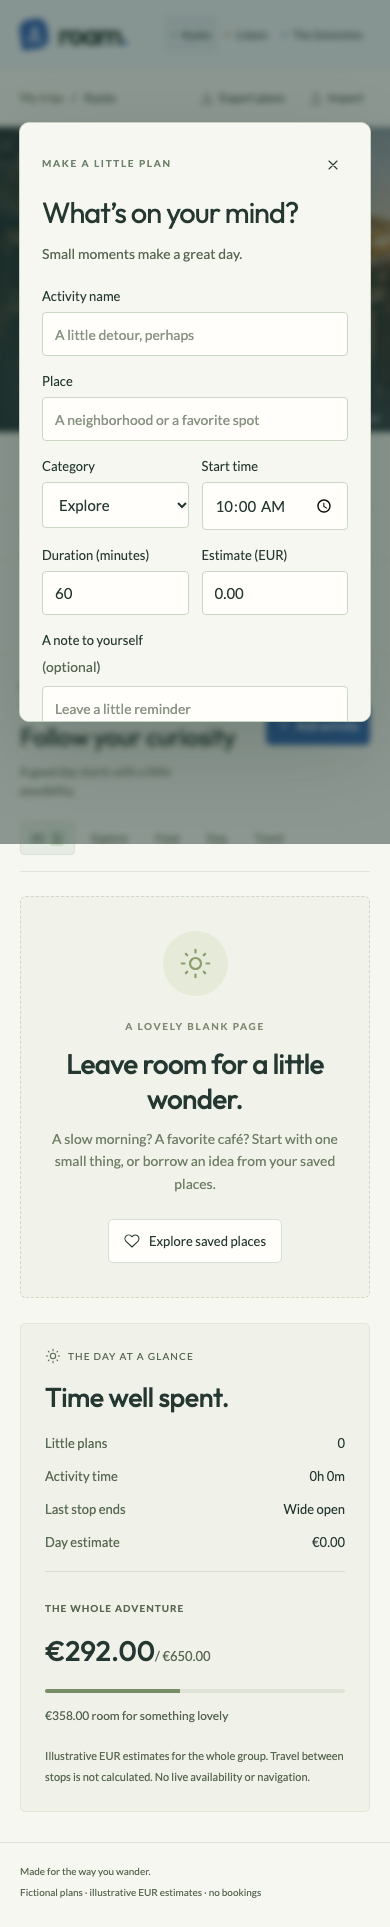
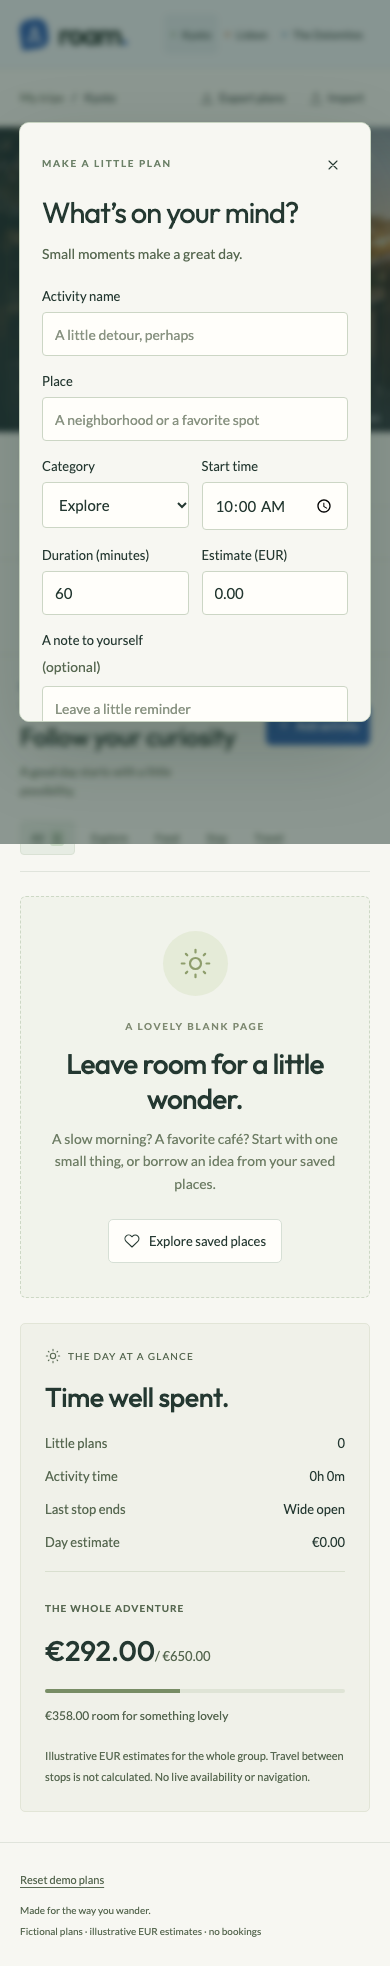
Keep recovery controls reachable for small-screen planners
Expose reset from the mobile footer and return native-dialog focus explicitly, including Safari mouse activation. Extend all responsive browser checks to exercise the reset action and refresh actual screenshots and build measurements.

Confidence: high
Scope-risk: narrow
Tested: 22 Chromium/WebKit journeys; reset availability and focus at 390, 768, 1440; strict typecheck; lint; format; production build; final screenshots with no failed HTTP assets
Not-tested: Real-device screen readers

diff --git a/src/routes/+layout.svelte b/src/routes/+layout.svelte
@@ -9,6 +9,16 @@
   const planner = new Planner();
   setContext(PLANNER, planner);
   let resetDialog: HTMLDialogElement;
+  let resetTrigger: HTMLButtonElement | undefined;
+  function openReset(event: MouseEvent) {
+    if (event.currentTarget instanceof HTMLButtonElement)
+      resetTrigger = event.currentTarget;
+    resetDialog.showModal();
+  }
+  function closeReset() {
+    resetDialog.close();
+    resetTrigger?.focus();
+  }
   let importInput: HTMLInputElement;
   let importError = $state('');
   onMount(() => planner.load());
@@ -85,9 +95,7 @@
         <span>A little structure. A lot of possibility.</span>
       </div>
       <div class="local-badge"><span></span>Just yours, on this device</div>
-      <button class="reset-button" onclick={() => resetDialog.showModal()}
-        >Reset demo plans</button
-      >
+      <button class="reset-button" onclick={openReset}>Reset demo plans</button>
     </div>
   </aside>
   <div class="app-content">
@@ -132,6 +140,7 @@
       </div>{/if}
     <main id="main">{@render children()}</main>
     <footer class="page-footer">
+      <button class="mobile-reset" onclick={openReset}>Reset demo plans</button>
       <span>Made for the way you wander.</span><span
         >Fictional plans · illustrative EUR estimates · no bookings</span
       >
@@ -146,12 +155,19 @@
     onclick={() => (planner.status = '')}><Icon name="close" /></button
   >
 </div>
-<dialog bind:this={resetDialog} aria-labelledby="reset-title">
+<dialog
+  bind:this={resetDialog}
+  aria-labelledby="reset-title"
+  oncancel={(event) => {
+    event.preventDefault();
+    closeReset();
+  }}
+>
   <div class="dialog-header">
     <span class="eyebrow">A FRESH PAGE</span><button
       class="icon-button"
       aria-label="Close reset dialog"
-      onclick={() => resetDialog.close()}><Icon name="close" /></button
+      onclick={closeReset}><Icon name="close" /></button
     >
   </div>
   <h2 id="reset-title">Start with the demo again?</h2>
@@ -160,13 +176,11 @@
     want a separate backup. You can also undo this reset during this visit.
   </p>
   <div class="dialog-actions">
-    <button class="secondary" onclick={() => resetDialog.close()}
-      >Keep my plans</button
-    ><button
+    <button class="secondary" onclick={closeReset}>Keep my plans</button><button
       class="primary"
       onclick={() => {
         planner.reset();
-        resetDialog.close();
+        closeReset();
       }}>Reset all plans</button
     >
   </div>

diff --git a/tests/planner.spec.ts b/tests/planner.spec.ts
@@ -228,6 +228,16 @@ for (const width of [390, 768, 1440])
       ).violations
     ).toEqual([]);
     await page.goto(route);
+    const reset = page.getByRole('button', {
+      name: 'Reset demo plans',
+      exact: true
+    });
+    await expect(reset).toBeVisible();
+    await reset.click();
+    await page
+      .getByRole('button', { name: 'Keep my plans', exact: true })
+      .click();
+    await expect(reset).toBeFocused();
     await expect(
       page.getByRole('button', { name: 'Add activity', exact: true })
     ).toBeVisible();

diff --git a/src/app.css b/src/app.css
@@ -2320,3 +2320,26 @@ dialog {
     font-size: 25px;
   }
 }
+
+.mobile-reset {
+  display: none;
+}
+@media (max-width: 820px) {
+  .mobile-reset {
+    display: block;
+    font-size: 11px;
+    text-decoration: underline;
+    text-underline-offset: 3px;
+    padding: 8px 0;
+    min-height: 36px;
+  }
+  .page-footer {
+    flex-wrap: wrap;
+    align-items: center;
+  }
+}
+@media (max-width: 600px) {
+  .page-footer {
+    align-items: flex-start;
+  }
+}

diff --git a/docs/QA.md b/docs/QA.md
@@ -25,7 +25,7 @@ The browser suite covers editing, mouse/keyboard order changes, moving between d
 
 | Asset group                          | Count | Actual bytes | Sum of per-file gzip bytes |
 | ------------------------------------ | ----: | -----------: | -------------------------: |
-| JavaScript, including service worker |    18 |      140,809 |                     56,833 |
+| JavaScript, including service worker |    18 |      141,059 |                     56,949 |
 | CSS                                  |     1 |       29,806 |                      7,072 |
 | WOFF2 fonts                          |     3 |       60,376 |                     60,244 |
 | Destination JPEGs (900px + 1536px)   |     6 |    2,563,800 |                  2,563,418 |

diff --git a/docs/RELEASE.md b/docs/RELEASE.md
@@ -1,0 +1,7 @@
+# Release record
+
+The planner implementation and hardening are complete locally. Publication is gated on passing feature-PR checks, followed by a history-preserving merge and verified GitHub Pages deployment. The public verification record will be added after deployment; the intended free Pages address is not yet claimed as a verified live demo here.
+
+- Source: https://github.com/khalilBenAli1/roam-sveltekit
+- Feature PR: https://github.com/khalilBenAli1/roam-sveltekit/pull/1
+- Local checks: 19 unit tests and 22 Chromium/WebKit journeys passed, including offline, responsive, Axe, zoom and reset-focus regressions. See QA.md.
